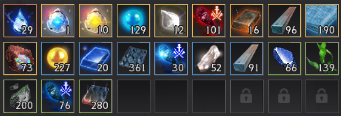
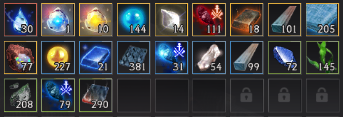
fdfdf

diff --git a/black.html b/black.html
@@ -630,24 +630,24 @@
         <div id="모은재료_파템재료"><!-- 빈칸도 만들고, 세로로 나열됨 -->
           <div id="파템재료_일퀘개수" class="d-inline-block 재료높이" style="vertical-align: top;">
             <div><div>필<br>요<br>수</div><div>보<br>유<br>수</div><div>남<br>은<br>수</div><div>일<br><br>get</div><div>일<br>퀘<br>수</div></div>
-            <div><button>42</button><button style="background-color: chartreuse;"  title="심해의눈물">29</button><button></button><button>1</button><button style="background-color: chartreuse;"></button></div><!-- 심해의 눈물 1-->
-            <div><button>30</button><button style="background-color: chartreuse;"  title="화려한 진주 결정">12</button><button></button><button>물교</button><button style="background-color: chartreuse;"></button></div><!-- 화려한 진주 결정-->
-            <div><button></button><button style="background-color: chartreuse;"    title="콕스유물 전투">101</button><button></button><button>3</button><button style="background-color: chartreuse;"></button></div><!-- 콕스유물 전투 -->
-            <div><button>30</button><button style="background-color: chartreuse;"  title="화려한 암염 주괴">16</button><button></button><button>물교</button><button style="background-color: chartreuse;"></button></div><!-- 화려한 암염 주괴-->
-            <div><button>170</button><button style="background-color: chartreuse;" title="짙은파도빛규격각">96</button><button></button><button>3</button><button style="background-color: chartreuse;"></button></div><!--짙은 파도빛이 감도는 규격 각목 3 -->
+            <div><button>42</button><button style="background-color: chartreuse;"  title="심해의눈물">30</button><button></button><button>1</button><button style="background-color: chartreuse;"></button></div><!-- 심해의 눈물 1-->
+            <div><button>30</button><button style="background-color: chartreuse;"  title="화려한 진주 결정">14</button><button></button><button>물교</button><button style="background-color: chartreuse;"></button></div><!-- 화려한 진주 결정-->
+            <div><button></button><button style="background-color: chartreuse;"    title="콕스유물 전투">111</button><button></button><button>3</button><button style="background-color: chartreuse;"></button></div><!-- 콕스유물 전투 -->
+            <div><button>30</button><button style="background-color: chartreuse;"  title="화려한 암염 주괴">18</button><button></button><button>물교</button><button style="background-color: chartreuse;"></button></div><!-- 화려한 암염 주괴-->
+            <div><button>170</button><button style="background-color: chartreuse;" title="짙은파도빛규격각">101</button><button></button><button>3</button><button style="background-color: chartreuse;"></button></div><!--짙은 파도빛이 감도는 규격 각목 3 -->
 
-            <div><button>180</button><button style="background-color: chartreuse;" title="달의핏줄이새겨진아마포">190</button><button></button><button>3</button><button style="background-color: chartreuse;"></button></div><!-- 달의 핏줄이 새겨진 아마포 3-->
-            <div><button></button><button style="background-color: chartreuse;"    title="홍조빛 해저 단괴">73</button><button></button><button>2</button><button style="background-color: chartreuse;"></button></div><!-- 홍조빛 해저 단괴-->
-            <div><button></button><button style="background-color: chartreuse;"    title="빛나는코발트주괴">20</button><button></button><button>물교</button><button style="background-color: chartreuse;"></button></div><!--빛나는 코발트주괴 -->
-            <div><button></button><button style="background-color: chartreuse;"    title="달의비늘이새겨진합판">361</button><button></button><button>10</button><button style="background-color: chartreuse;"></button></div><!-- 달의 비늘이 새겨진 합판-->
-            <div><button></button><button style="background-color: chartreuse;"    title="콕스유물 상급">30</button><button></button><button>1</button><button style="background-color: chartreuse;"></button></div><!-- 콕스유물 상급-->
-            <div><button></button><button style="background-color: chartreuse;"    title="순수한 진주 결정">52</button><button></button><button>2</button><button style="background-color: chartreuse;"></button></div><!-- 순수한 진주결정-->
-            <div><button></button><button style="background-color: chartreuse;"    title="파도빛이 감도는 규격 각목">91</button><button></button><button>3</button><button style="background-color: chartreuse;"></button></div><!--파도빛이 감도는 규격 각목 -->
-            <div><button></button><button style="background-color: chartreuse;"    title="대양의 견고한 현철">66</button><button></button><button>물교</button><button style="background-color: chartreuse;"></button></div><!-- 대양의 견고한 현철-->
-            <div><button></button><button style="background-color: chartreuse;"    title="심해초 줄기">139</button><button></button><button>4</button><button style="background-color: chartreuse;"></button></div><!-- 심해초 줄기-->
-            <div><button></button><button style="background-color: chartreuse;"    title="순수한 암초 조각">200</button><button></button><button>8</button><button style="background-color: chartreuse;"></button></div><!-- 순수한 암초조각-->
-            <div><button></button><button style="background-color: chartreuse;"    title="콕스유물 하급">76</button><button></button><button>3</button><button style="background-color: chartreuse;"></button></div><!-- 콕스유물 하급-->
-            <div><button></button><button style="background-color: chartreuse;"    title="강화된 섬나무 증착합판">280</button><button></button><button>10</button><button style="background-color: chartreuse;"></button></div><!--강화된 섬나무 증착합판 -->
+            <div><button>180</button><button style="background-color: chartreuse;" title="달의핏줄이새겨진아마포">205</button><button></button><button>3</button><button style="background-color: chartreuse;"></button></div><!-- 달의 핏줄이 새겨진 아마포 3-->
+            <div><button></button><button style="background-color: chartreuse;"    title="홍조빛 해저 단괴">77</button><button></button><button>2</button><button style="background-color: chartreuse;"></button></div><!-- 홍조빛 해저 단괴-->
+            <div><button></button><button style="background-color: chartreuse;"    title="빛나는코발트주괴">21</button><button></button><button>물교</button><button style="background-color: chartreuse;"></button></div><!--빛나는 코발트주괴 -->
+            <div><button></button><button style="background-color: chartreuse;"    title="달의비늘이새겨진합판">381</button><button></button><button>10</button><button style="background-color: chartreuse;"></button></div><!-- 달의 비늘이 새겨진 합판-->
+            <div><button></button><button style="background-color: chartreuse;"    title="콕스유물 상급">31</button><button></button><button>1</button><button style="background-color: chartreuse;"></button></div><!-- 콕스유물 상급-->
+            <div><button></button><button style="background-color: chartreuse;"    title="순수한 진주 결정">54</button><button></button><button>2</button><button style="background-color: chartreuse;"></button></div><!-- 순수한 진주결정-->
+            <div><button></button><button style="background-color: chartreuse;"    title="파도빛이 감도는 규격 각목">99</button><button></button><button>3</button><button style="background-color: chartreuse;"></button></div><!--파도빛이 감도는 규격 각목 -->
+            <div><button></button><button style="background-color: chartreuse;"    title="대양의 견고한 현철">72</button><button></button><button>물교</button><button style="background-color: chartreuse;"></button></div><!-- 대양의 견고한 현철-->
+            <div><button></button><button style="background-color: chartreuse;"    title="심해초 줄기">145</button><button></button><button>4</button><button style="background-color: chartreuse;"></button></div><!-- 심해초 줄기-->
+            <div><button></button><button style="background-color: chartreuse;"    title="순수한 암초 조각">208</button><button></button><button>8</button><button style="background-color: chartreuse;"></button></div><!-- 순수한 암초조각-->
+            <div><button></button><button style="background-color: chartreuse;"    title="콕스유물 하급">79</button><button></button><button>3</button><button style="background-color: chartreuse;"></button></div><!-- 콕스유물 하급-->
+            <div><button></button><button style="background-color: chartreuse;"    title="강화된 섬나무 증착합판">290</button><button></button><button>10</button><button style="background-color: chartreuse;"></button></div><!--강화된 섬나무 증착합판 -->
           </div>
           
           <div id="파템재료_재료아이콘" class="d-inline-block 재료높이" style="vertical-align: top;">
